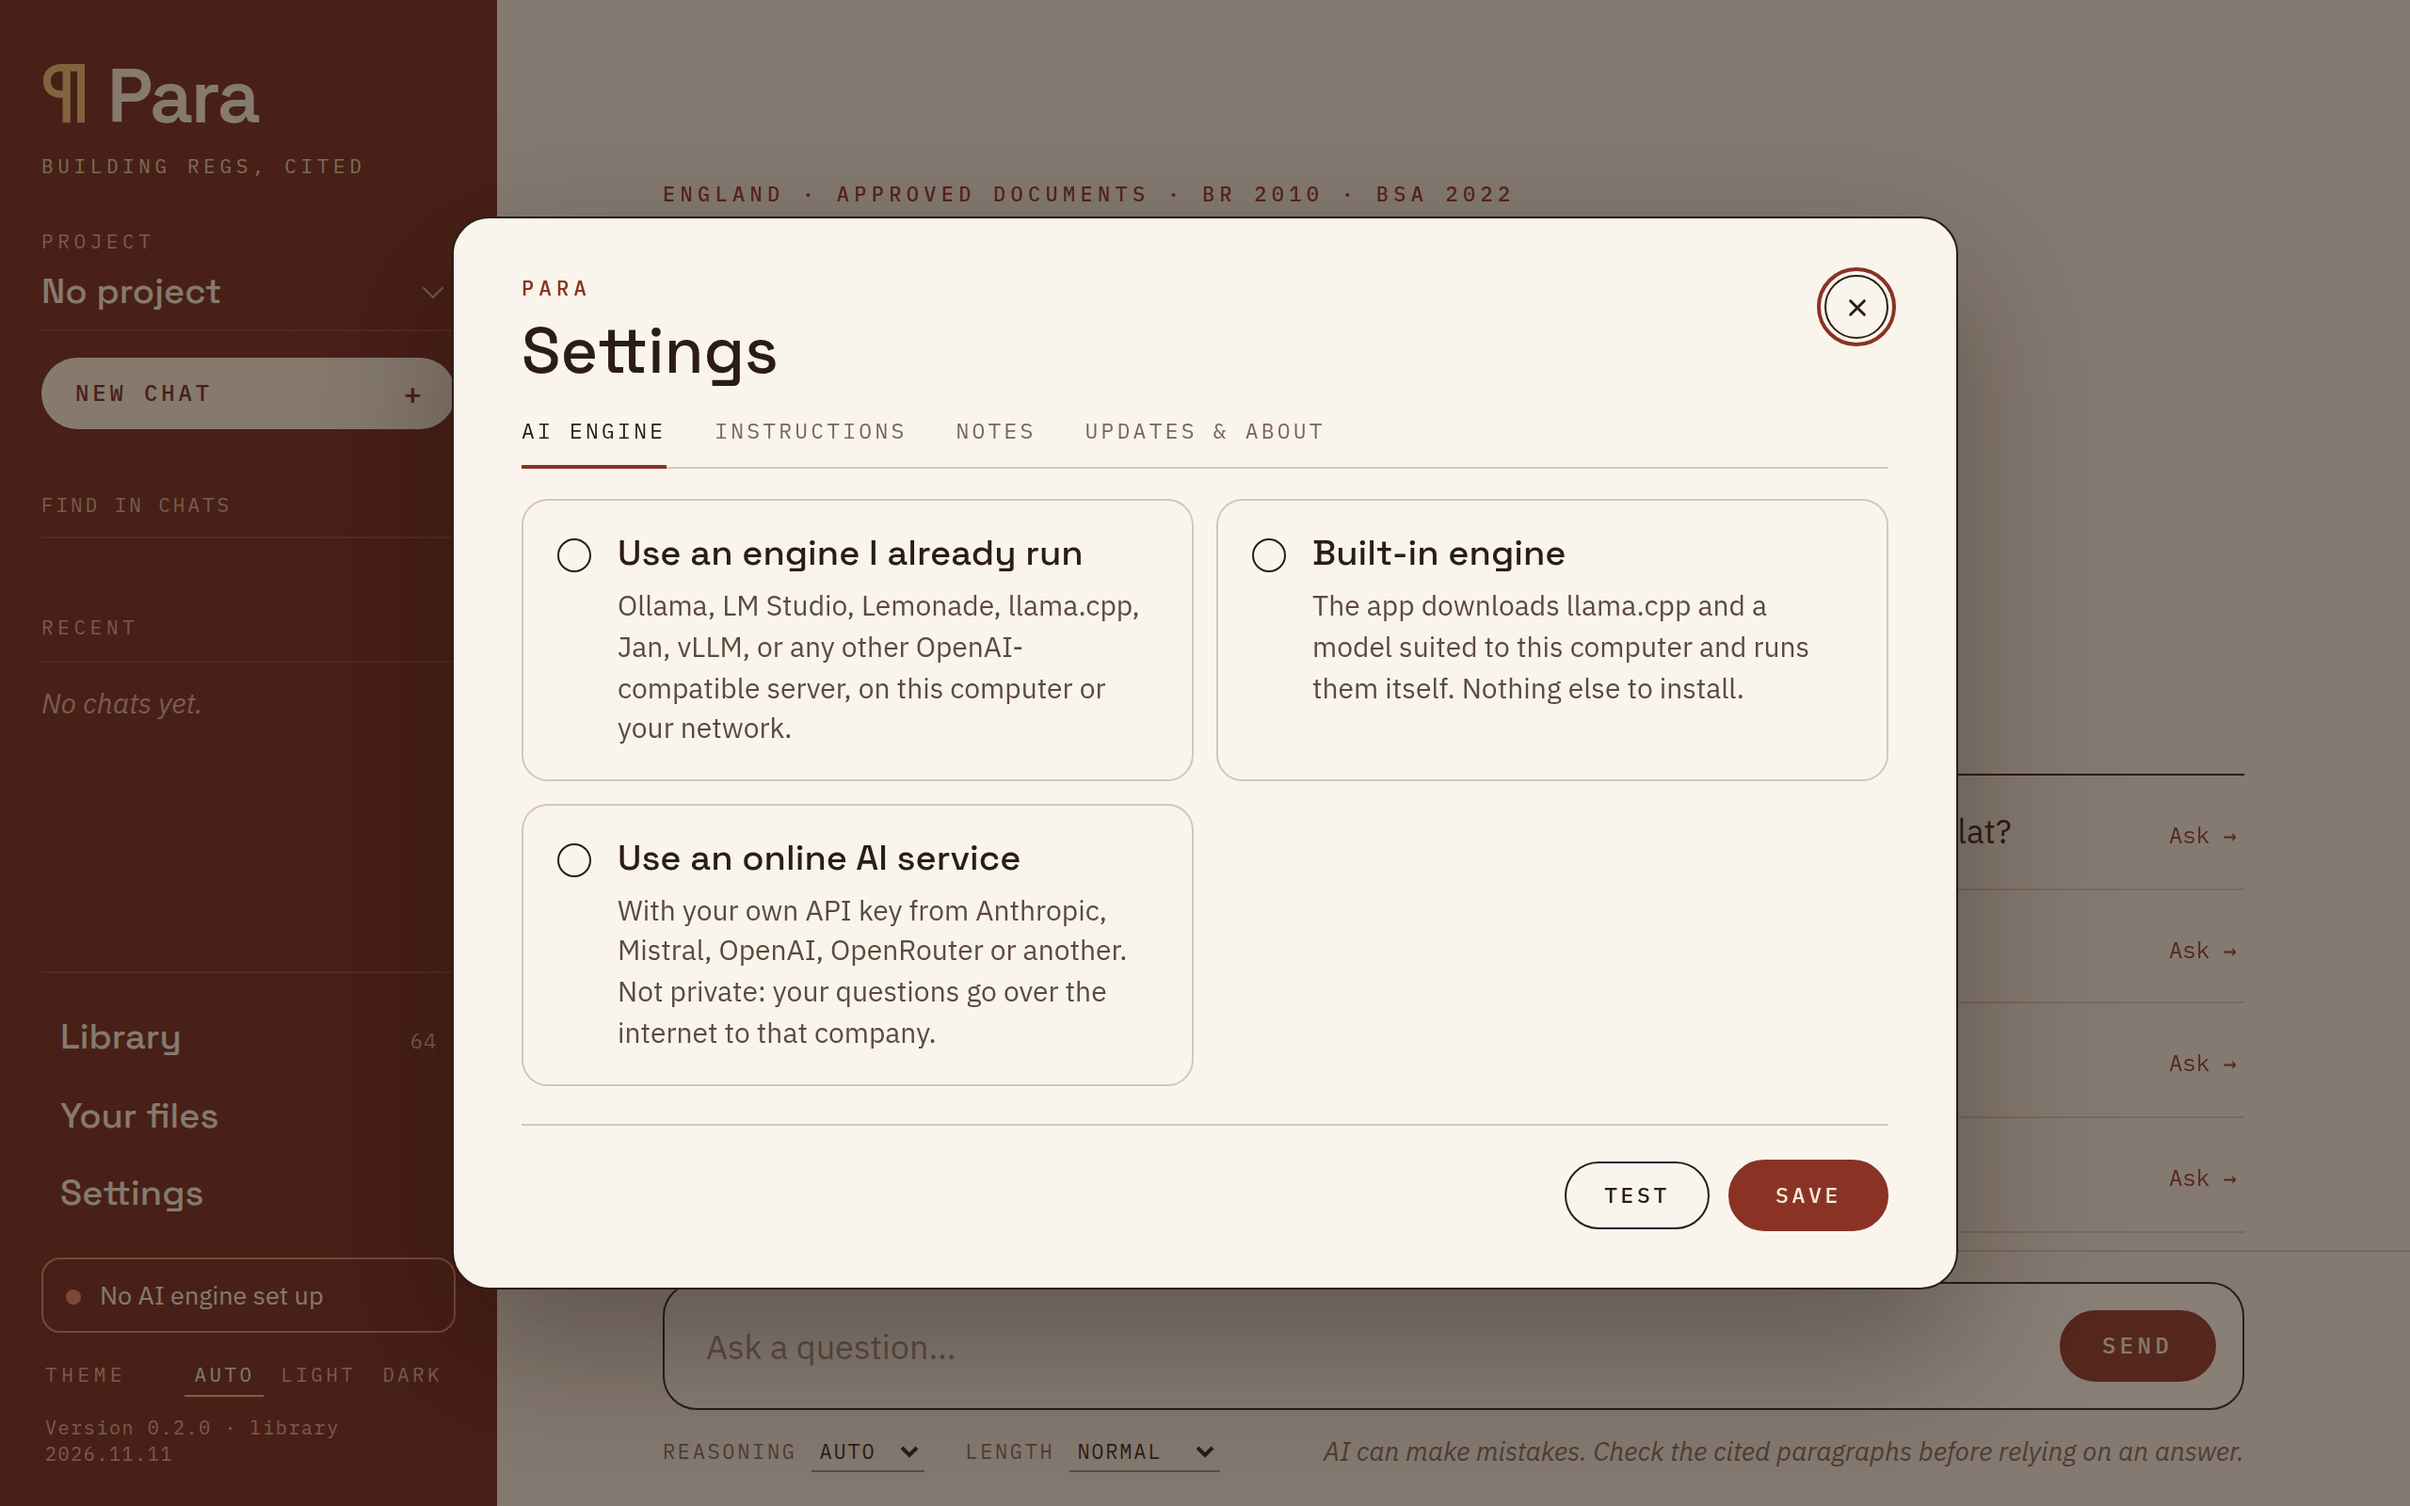
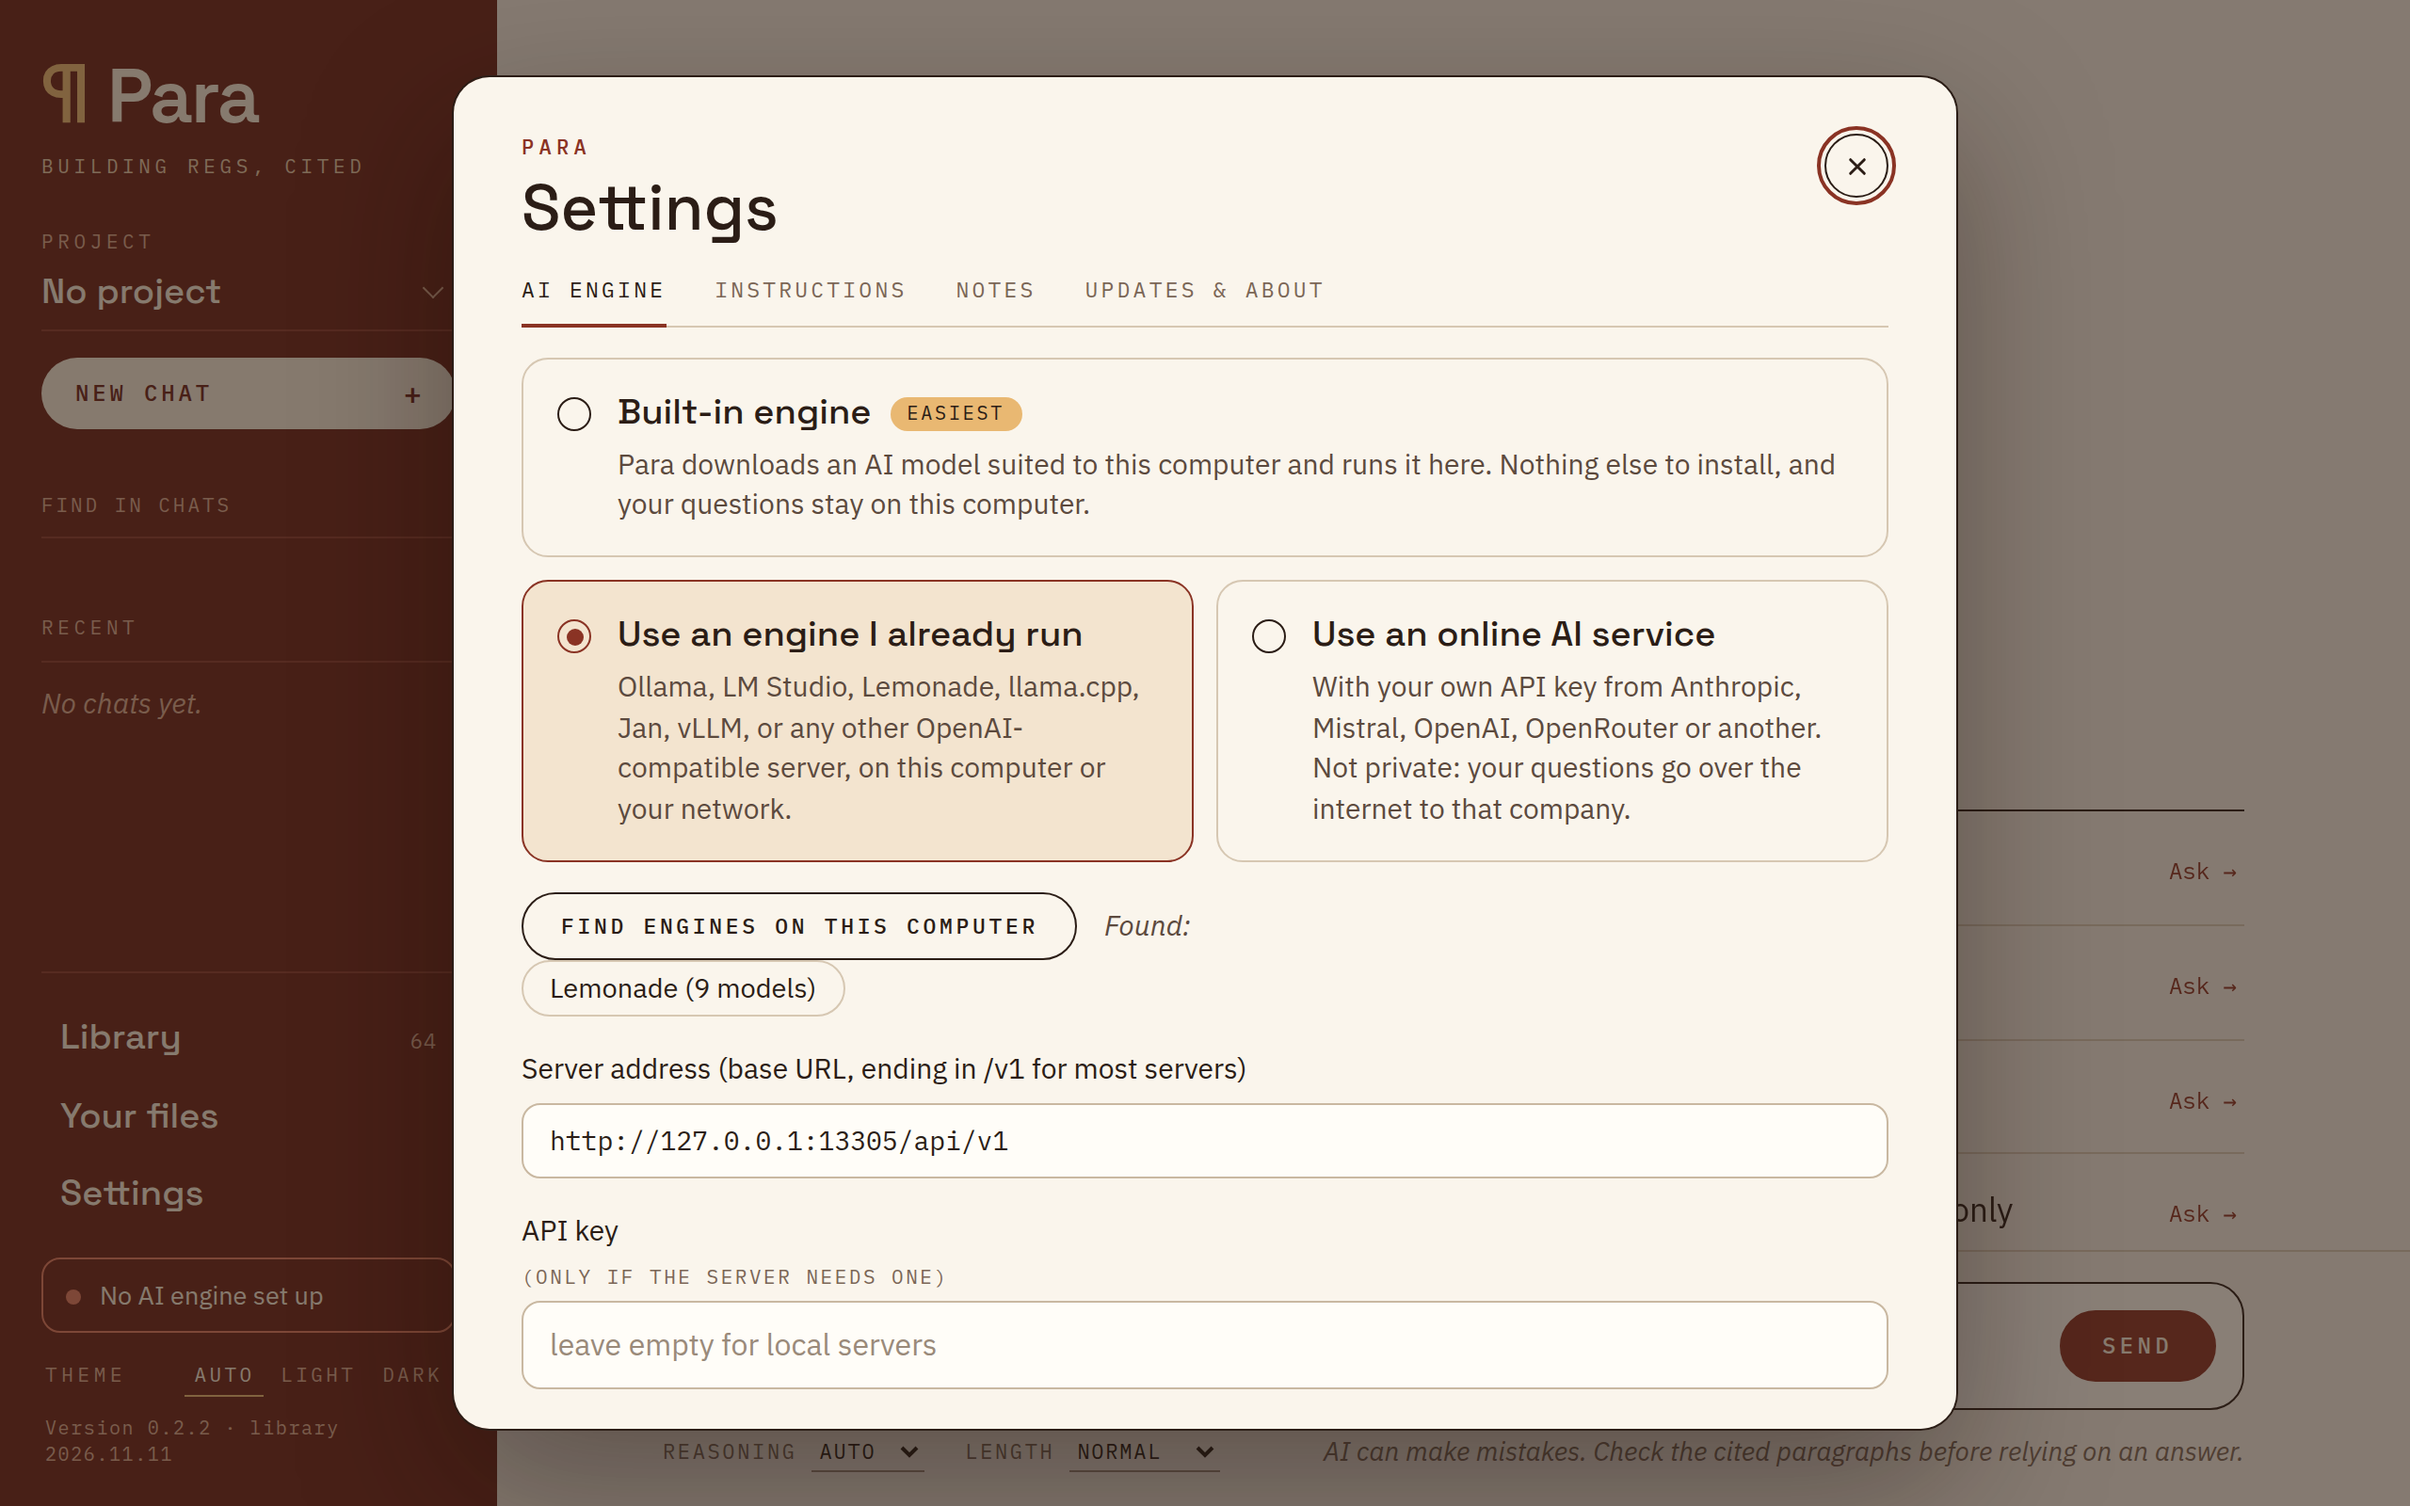
The built-in engine comes first, and "What is a model?" is explained
Most of the people Para is for don't know what an inference engine is, and
the first card they met asked whether they already ran one. The built-in
engine is now the first card, across the full width and marked "Easiest",
and is the one ticked when nothing has been chosen yet.

The model list gets a "What is a model?" link that opens a short
explanation in plain words: what it is, that the regulations are in the
library and not in the model, and why its answers still need checking.

diff --git a/para/static/index.html b/para/static/index.html
@@ -109,12 +109,12 @@
 
   <section class="tabpane" data-pane="engine">
     <div class="choice">
+      <label class="radio-card first"><input type="radio" name="mode" value="bundled">
+        <div><b>Built-in engine</b><span class="tag">Easiest</span><br><small>Para downloads an AI model suited to this
+          computer and runs it here. Nothing else to install, and your questions stay on this computer.</small></div></label>
       <label class="radio-card"><input type="radio" name="mode" value="external">
         <div><b>Use an engine I already run</b><br><small>Ollama, LM Studio, Lemonade, llama.cpp, Jan, vLLM, or any
           other OpenAI-compatible server, on this computer or your network.</small></div></label>
-      <label class="radio-card"><input type="radio" name="mode" value="bundled">
-        <div><b>Built-in engine</b><br><small>The app downloads llama.cpp and a model suited to this computer and
-          runs them itself. Nothing else to install.</small></div></label>
       <label class="radio-card"><input type="radio" name="mode" value="hosted">
         <div><b>Use an online AI service</b><br><small>With your own API key from Anthropic, Mistral, OpenAI, OpenRouter
           or another. Not private: your questions go over the internet to that company.</small></div></label>
@@ -150,7 +150,8 @@
     <div id="bundledPane" class="pane" hidden>
       <p class="muted small" id="machineInfo"></p>
       <p class="muted small">Each model was asked the same 36 questions about the regulations; its line says how
-        many it got right. A smaller model gets more wrong, so check its answers against the paragraphs it cites.</p>
+        many it got right. A smaller model gets more wrong, so check its answers against the paragraphs it cites.
+        <button type="button" class="link-btn" id="modelHelp">What is a model?</button></p>
       <div id="modelCards"></div>
       <label class="check"><input type="checkbox" id="gpu" checked> Use the graphics card (Windows/Linux: Vulkan
         build; untick for the CPU-only build if the engine fails to start)</label>
@@ -240,6 +241,20 @@
   <p></p>
   <form method="dialog" class="modal-actions"><button class="btn" value="no">Cancel</button>
     <button class="btn danger" value="yes">Delete</button></form>
+</dialog>
+
+<dialog id="dlg-model-help" class="modal narrow explain">
+  <div class="eyebrow">In plain words</div>
+  <h2>What is a model?</h2>
+  <p>A model is the AI itself: one large file that has learned to read and write from a great deal of text. Para
+    runs it on this computer to read your question, search the regulations and write the answer.</p>
+  <p>It doesn't know the regulations by heart. They are in Para's library: the model looks them up and cites the
+    paragraphs it used, and Para checks that each citation is to a passage it really looked at.</p>
+  <p>A bigger model makes fewer mistakes, but needs more memory and is a bigger download. Para recommends the
+    best one this computer can run. Any model can still misread a paragraph, so open the cited paragraph before
+    you rely on an answer.</p>
+  <p>Once it's downloaded it works without the internet, and your questions don't leave this computer.</p>
+  <form method="dialog" class="modal-actions"><button class="btn primary">Close</button></form>
 </dialog>
 
 <dialog id="dlg-unsaved" class="modal narrow">

diff --git a/para/static/app.js b/para/static/app.js
@@ -722,7 +722,8 @@ function openSettings(tab = "engine") {
   const s = S.settings, e = s.engine;
   // a hosted service is saved as an external engine; which card is ticked follows from its address
   const mode = e.mode === "external" && e.base_url && !isLocal(e.base_url) ? "hosted" : e.mode || "";
-  $$("input[name=mode]").forEach((r) => r.checked = r.value === mode);
+  // nothing chosen yet: the built-in engine is offered, since it needs nothing the person has to know about
+  $$("input[name=mode]").forEach((r) => r.checked = r.value === (mode || "bundled"));
   $("#baseUrl").value = e.base_url || "";
   $("#apiKey").value = "";
   fillModels(e.model ? [e.model] : [], e.model);
@@ -749,6 +750,9 @@ function modeChanged() {
   remoteCheck();
 }
 $$("input[name=mode]").forEach((r) => r.onchange = modeChanged);
+const dlgHelp = $("#dlg-model-help");
+$("#modelHelp").onclick = () => dlgHelp.showModal();
+dlgHelp.addEventListener("click", (e) => { if (e.target === dlgHelp) dlgHelp.close(); });   // a click outside it
 // The same rule as llm.is_local: whole addresses only, since "10.example.com" is a name anyone can register.
 function isLocal(u) {
   try { return /^(localhost|((127|10)\.\d+|192\.168|169\.254|172\.(1[6-9]|2\d|3[01]))\.\d+\.\d+|0\.0\.0\.0|\[(::1|f[cd][0-9a-f]{2}:.*|fe[89ab][0-9a-f]:.*)\])$|\.local$/.test(new URL(u).hostname); } catch { return true; }

diff --git a/para/static/app.css b/para/static/app.css
@@ -457,6 +457,11 @@ code { font-family: var(--mono); font-size: .8em; background: var(--cite); color
 .tabpane { display: flex; flex-direction: column; gap: 16px; min-height: 0; }
 .tabpane > p { margin: 0; }
 .choice { display: grid; grid-template-columns: 1fr 1fr; gap: 12px; }
+.choice .radio-card.first { grid-column: 1 / -1; }
+.radio-card .tag { display: inline-block; vertical-align: 2px; margin-left: 10px; background: var(--gold); color: #2b1d16;
+  border-radius: 999px; padding: 2px 9px; font: 10px/1.4 var(--mono); letter-spacing: .14em; text-transform: uppercase; }
+.modal.explain > p + p { color: var(--ink); }
+#modelHelp { margin-left: 6px; }
 .modal label.radio-card { flex-direction: row; gap: 14px; border: 1px solid var(--border); border-radius: 14px; padding: 16px 18px;
   cursor: pointer; }
 .radio-card:hover { background: var(--panel-2); }

diff --git a/docs/take_screenshots.py b/docs/take_screenshots.py
@@ -141,6 +141,11 @@ async def shots(url, first_url, home, only):
             # the list starts below the fold: show it from the line about this computer, with the models' scores
             await page.evaluate("document.getElementById('machineInfo').scrollIntoView()")
             await save(page, "setup-builtin")
+            if wanted("model-help"):
+                await page.click("#modelHelp")
+                await page.wait_for_selector("#dlg-model-help[open]")
+                await save(page, "model-help")
+                await page.click("#dlg-model-help button")
 
         # ----- the app in use -----
         await page.goto(url)

diff --git a/DESIGN.md b/DESIGN.md
@@ -61,6 +61,7 @@ focused so Enter doesn't delete); the browser's own confirm box is never used.
 |---|---|
 | First run: choose an engine | `setup-engine.png` |
 | Built-in engine: model cards, recommended one marked | `setup-builtin.png` |
+| "What is a model?", opened from the built-in engine's list | `model-help.png` |
 | Empty chat: questions to try, the documents by Part | `welcome.png` |
 | Answer with inline citations, activity expanded | `answer.png` |
 | Under an answer: the cited list, Copy with references and Ask again | `answer-actions.png` |
@@ -171,7 +172,10 @@ buttons and pills 999 px, close buttons a 34 px circle. Spacing in multiples of 
 - **Privacy badge**: bottom of the sidebar, a bordered box with a coloured dot. Green "Private" for the built-in
   engine or a local or LAN address, gold with the host name for anything else, coral "No AI engine set up" (opens
   Settings). On phones the dot alone sits at the right of the top bar.
-- **Engine choice**: three radio cards in Settings → AI engine: an engine already running, the built-in engine, or an
+- **Engine choice**: three radio cards in Settings → AI engine. The built-in engine comes first, across the full
+  width with a gold "Easiest" pill, and is the one ticked when nothing has been chosen yet (unless exactly one
+  engine is found running, which is then filled in): most people don't know what an engine is and shouldn't need
+  to. Under it, side by side: an engine already running, or an
   online AI service ("hosted" in the code). It shows a pill per service (Anthropic, Mistral, OpenAI, OpenRouter; the
   chosen one in `--accent-2`), a line saying where it's based with "Get an API key ↗", then the same address, key and model fields
   as a local engine. The model is typed or picked from the service's list. The warm warning names the host and says
@@ -188,6 +192,10 @@ buttons and pills 999 px, close buttons a 34 px circle. Spacing in multiples of 
   models (4)", like the activity list, so nobody has to choose between a list of names. It opens by itself when one of
   them is chosen or downloading. Models too big for this computer are faded with the size line in red. A model no
   longer offered (`"retired"` in `models.json`) shows only on a computer that has it.
+- **What is a model?** (`#dlg-model-help`): a mono link at the end of the line above the model rows opens a small
+  dialog in the app's look: "In plain words" eyebrow, the question as its title, four short paragraphs (what a model
+  is, that the regulations are in the library and not in the model, why bigger is better and still fallible, that it
+  runs without the internet) and Close. No jargon in it: no "LLM", "weights", "tokens" or "inference".
 - **Library list**: a three-column grid (short name, title with the edition in italic under it, date) so long
   edition text can't squeeze the titles.
 - **Changed in this edition** (`.lib-changes`): at the top of the Library after an update, collapsed like a drawing's
